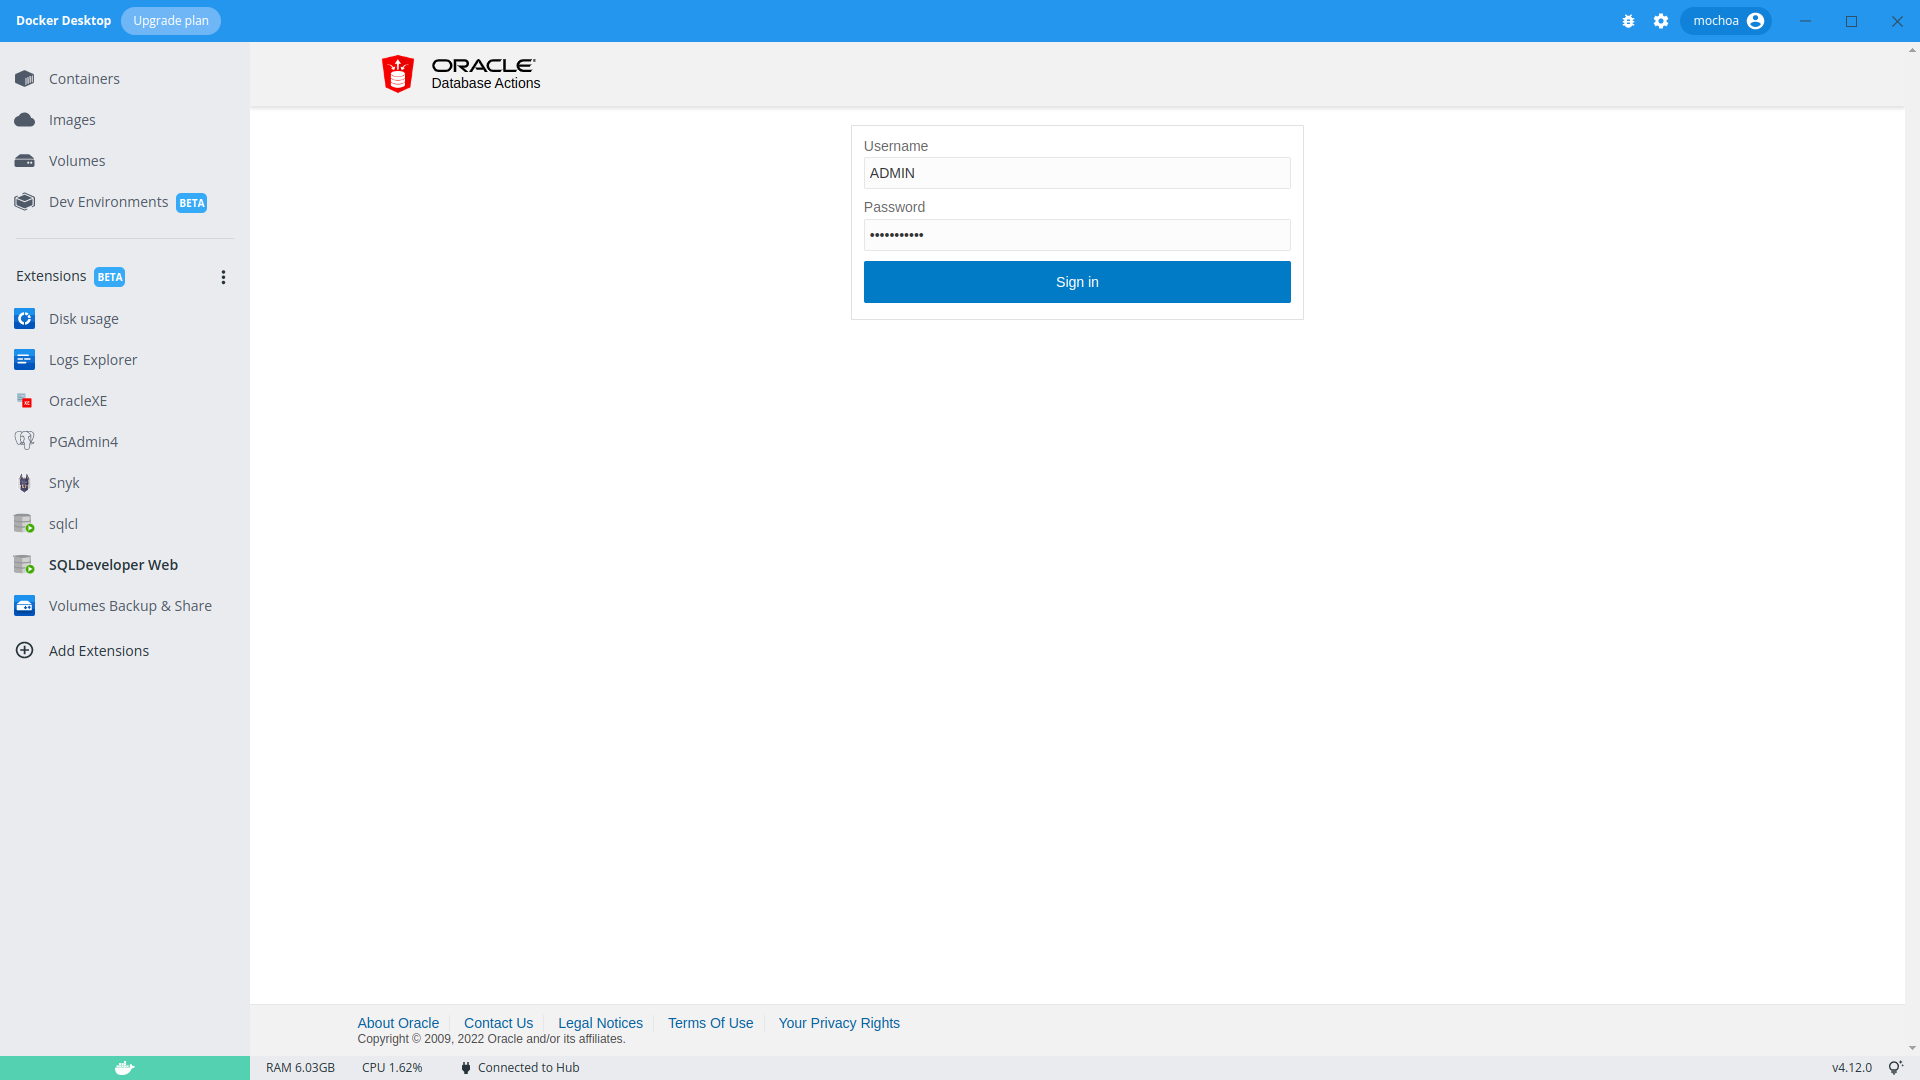
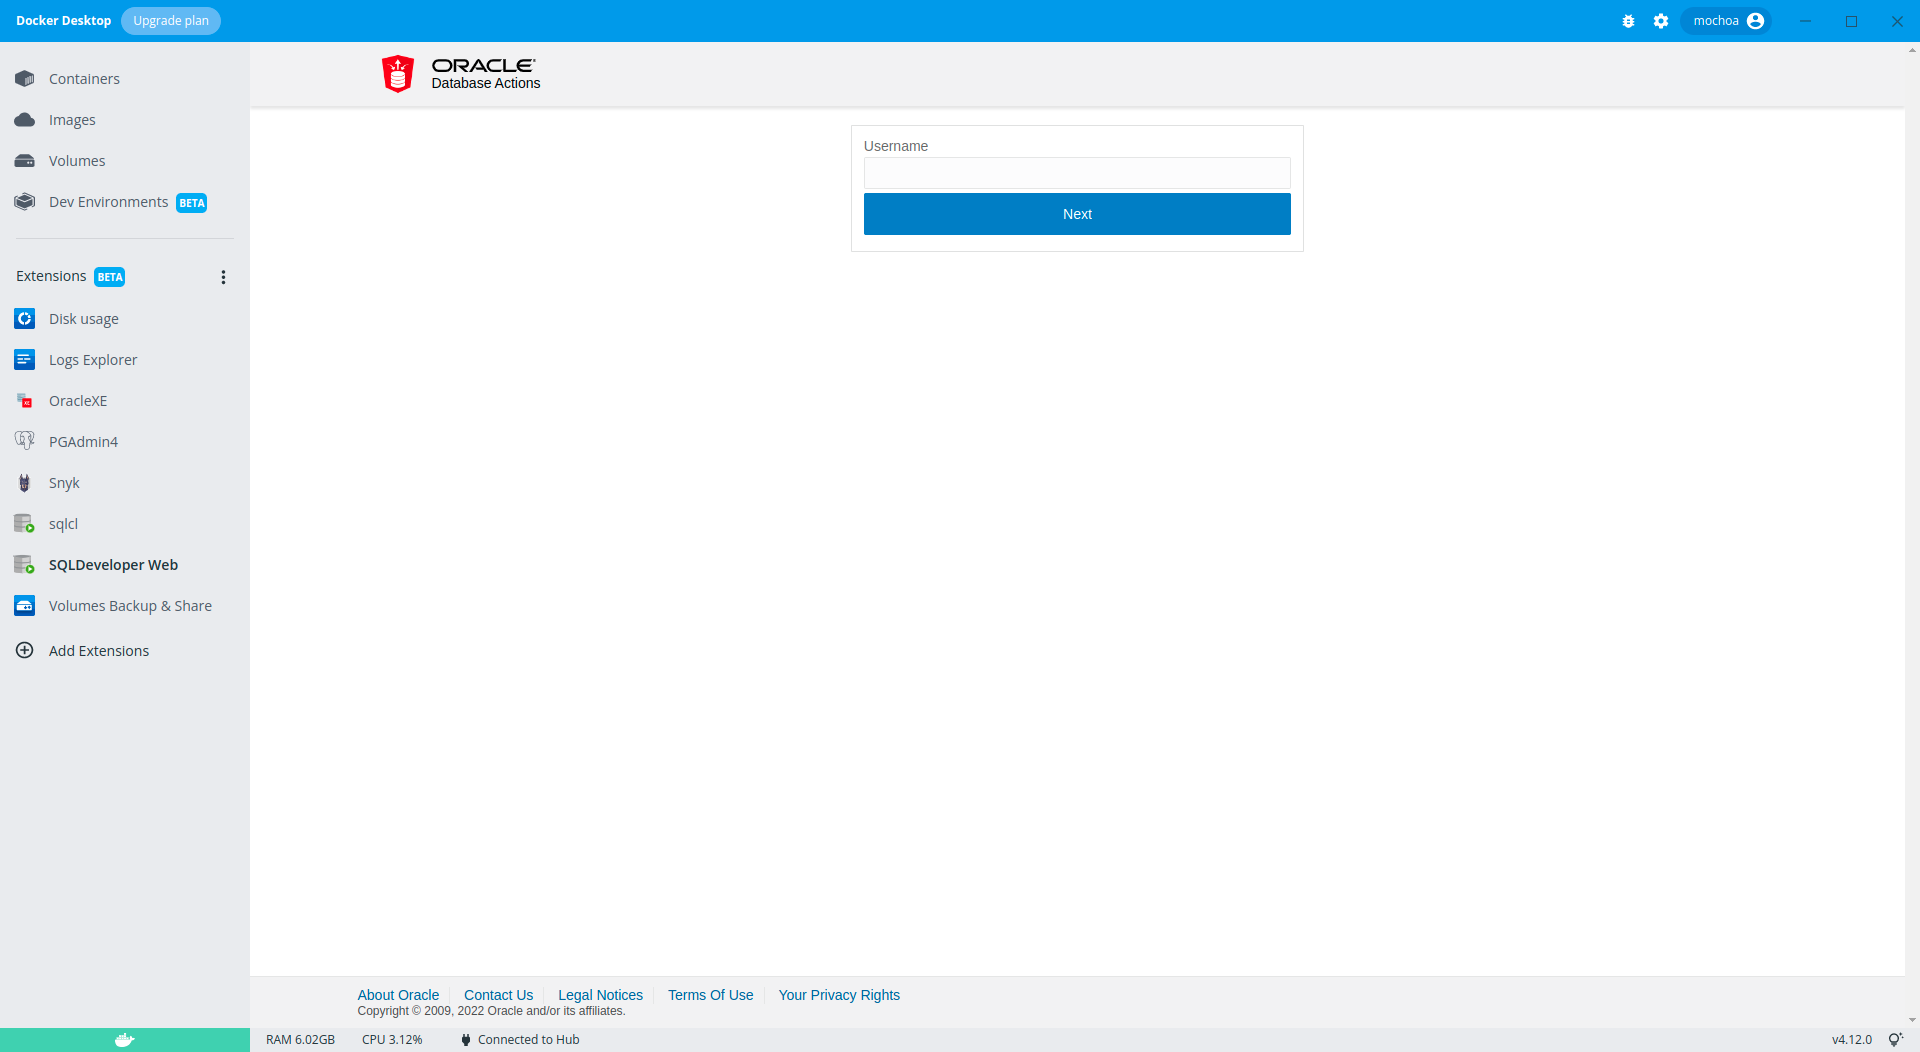
add login with variable user

diff --git a/client/src/App.tsx b/client/src/App.tsx
@@ -83,7 +83,7 @@ export function App() {
           </Grid>
         </Grid>
       )}
-      {ready &&  (window.location.href = 'http://localhost:9891/ords/admin/sign-in/?username=ADMIN&r=_sdw/')}
+      {ready &&  (window.location.href = 'http://localhost:9891/ords/sql-developer')}
     </>
   );
 }
